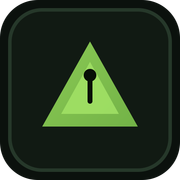
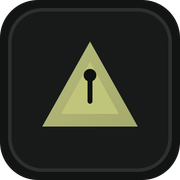
Apply olive delta UI palette across site theme
Update brand tokens, global CSS, header surface, buttons, badges, and
logo assets to the new charcoal-olive palette with #A3A86B accent.

Changed region(s): [[0.2222, 0.2222, 0.7778, 0.7222]]

diff --git a/src/styles/global.css b/src/styles/global.css
@@ -5,31 +5,31 @@
 	--font-sans: "Inter Variable", "Inter", ui-sans-serif, system-ui, sans-serif;
 	--font-display: "Syne Variable", "Syne", ui-sans-serif, sans-serif;
 
-	/* Delta Force — tactical green canvas, high readability */
-	--bg: #070b08;
-	--bg-panel: #111a13;
-	--bg-elevated: #0b110d;
-	--bg-hover: #172219;
-	--line: #26382a;
-	--line-soft: #1e2d22;
-	--line-strong: #314a38;
-	--ink: #d5ded2;
-	--ink-heading: #f4f8f1;
-	--ink-secondary: #aebbab;
-	--ink-muted: #83927f;
-	--ink-faint: #6f7d6c;
-	--link: #8ccb55;
-	--price: #9fe064;
-	--btn-text: #071007;
+	/* Delta Force — olive delta canvas, high readability */
+	--bg: #0d0f0e;
+	--bg-panel: #171a18;
+	--bg-elevated: #111412;
+	--bg-hover: #1d211e;
+	--line: #2b302c;
+	--line-soft: #232824;
+	--line-strong: #353a36;
+	--ink: #d2d3cc;
+	--ink-heading: #f4f4ef;
+	--ink-secondary: #aeb0a8;
+	--ink-muted: #92958d;
+	--ink-faint: #7a7d76;
+	--link: #b7bc7a;
+	--price: #c2c77d;
+	--btn-text: #10120f;
 
-	/* Brand accent — tactical green */
-	--magenta: #6faf45;
-	--magenta-soft: #8ccb55;
-	--magenta-deep: #5a9438;
+	/* Brand accent — delta olive */
+	--magenta: #a3a86b;
+	--magenta-soft: #b7bc7a;
+	--magenta-deep: #8a8f5a;
 	--accent: var(--magenta);
-	--accent-hover: #8ccb55;
-	--ok: #8ccb55;
-	--warn: #9fe064;
+	--accent-hover: #b7bc7a;
+	--ok: #b7bc7a;
+	--warn: #c2c77d;
 	--error: #d45b52;
 
 	/* Legacy aliases */
@@ -333,13 +333,13 @@
 
 	.g2a-badge--hot {
 		background: color-mix(in srgb, var(--warn) 18%, transparent);
-		color: #d8f0a8;
+		color: #e0e4b8;
 		border: 1px solid color-mix(in srgb, var(--warn) 35%, transparent);
 	}
 
 	.g2a-badge--new {
 		background: color-mix(in srgb, var(--ok) 16%, transparent);
-		color: #c8e8a0;
+		color: #d5dab0;
 		border: 1px solid color-mix(in srgb, var(--ok) 30%, transparent);
 	}
 

diff --git a/src/data/brand-theme.ts b/src/data/brand-theme.ts
@@ -59,7 +59,7 @@ export const themeDefaults: BrandThemeInput = {
 
 export const themePresets: { id: string; label: string; accent: string; bg: string }[] = [
 	{ id: 'magenta', label: 'Magenta', accent: '#c026d3', bg: '#08090a' },
-	{ id: 'delta-force', label: 'Delta Force', accent: '#6FAF45', bg: '#070B08' },
+	{ id: 'delta-force', label: 'Delta Force', accent: '#A3A86B', bg: '#0D0F0E' },
 	{ id: 'fortnite', label: 'Fortnite', accent: '#2b9dff', bg: '#0a0e17' },
 	{ id: 'apex', label: 'Apex', accent: '#ff6b2c', bg: '#0c0d10' },
 	{ id: 'teal', label: 'Teal', accent: '#14b8a6', bg: '#071012' },
@@ -177,7 +177,7 @@ export function deriveBrandTheme(input: Partial<BrandThemeInput> = {}): BrandThe
 			? mixHex(bgPanel, '#ffffff', 0.042)
 			: mixHex(bgElevated, '#ffffff', 0.06));
 	const price = normalizeHex(input.price) ?? '#9FE064';
-	const btnText = normalizeHex(input.btnText) ?? '#071007';
+	const btnText = normalizeHex(input.btnText) ?? '#10120F';
 	const lineSoft = normalizeHex(input.line) ? mixHex(input.line!, bg, 0.45) : mixHex(bg, '#ffffff', 0.08);
 	const line = normalizeHex(input.line) ?? mixHex(bg, '#ffffff', 0.12);
 	const lineStrong = normalizeHex(input.line) ? mixHex(input.line!, '#ffffff', 0.22) : mixHex(bg, '#ffffff', 0.18);
@@ -211,8 +211,8 @@ export function deriveBrandTheme(input: Partial<BrandThemeInput> = {}): BrandThe
 		inkMuted,
 		inkFaint,
 		link,
-		ok: '#8CCB55',
-		warn: '#9FE064',
+		ok: '#B7BC7A',
+		warn: '#C2C77D',
 		error: '#D45B52',
 		toneVoid,
 	};

diff --git a/src/data/brand.ts b/src/data/brand.ts
@@ -56,22 +56,22 @@ export const brand = {
 	 * Edit in Brand Studio → Colors (tones are fully customizable).
 	 */
 	theme: {
-		accent: '#6FAF45',
-		bg: '#070B08',
-		soft: '#8CCB55',
-		deep: '#5A9438',
-		hover: '#8CCB55',
-		panel: '#111A13',
-		panelHover: '#172219',
-		elevated: '#0B110D',
-		line: '#26382A',
-		ink: '#D5DED2',
-		inkHeading: '#F4F8F1',
-		inkSecondary: '#AEBBAB',
-		inkMuted: '#83927F',
-		link: '#8CCB55',
-		price: '#9FE064',
-		btnText: '#071007',
+		accent: '#A3A86B',
+		bg: '#0D0F0E',
+		soft: '#B7BC7A',
+		deep: '#8A8F5A',
+		hover: '#B7BC7A',
+		panel: '#171A18',
+		panelHover: '#1D211E',
+		elevated: '#111412',
+		line: '#2B302C',
+		ink: '#D2D3CC',
+		inkHeading: '#F4F4EF',
+		inkSecondary: '#AEB0A8',
+		inkMuted: '#92958D',
+		link: '#B7BC7A',
+		price: '#C2C77D',
+		btnText: '#10120F',
 	},
 
 	/**
